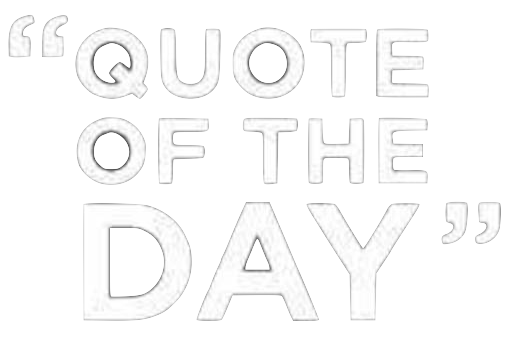
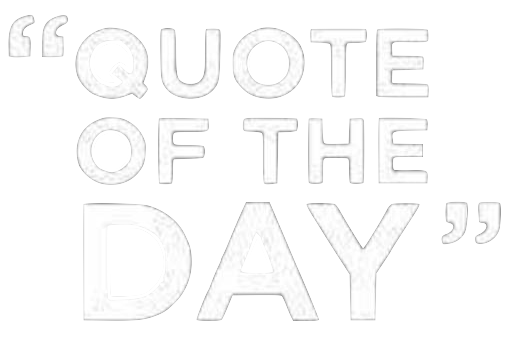
quote and word widget

diff --git a/lib/widgets/todaysWord.dart b/lib/widgets/todaysWord.dart
@@ -4,7 +4,7 @@ import 'package:overlay/overlay.dart';
 
 import '../providers/quotes.dart';
 
-class TodaysQuote extends StatelessWidget {
+class TodaysWord extends StatelessWidget {
   @override
   Widget build(BuildContext context) {
     var theme = Theme.of(context);
@@ -15,10 +15,10 @@ class TodaysQuote extends StatelessWidget {
               context: context,
               // Using overlayWidget
               overlayWidget: Padding(
-                  padding: const EdgeInsets.all(10.0),
+                  padding: const EdgeInsets.all(8.0),
                   child: Card(
                     child: Padding(
-                      padding: EdgeInsets.all(10),
+                      padding: EdgeInsets.all(8),
                       child: Text('"$latestQuote"',
                           style: theme.textTheme.headline6.copyWith(
                               fontSize: 20,
@@ -28,19 +28,16 @@ class TodaysQuote extends StatelessWidget {
                   )));
         },
         child: Container(
-          height: 140,
-          width: 170,
-          child: Card(
-            margin: EdgeInsets.all(10),
-            color: Color.fromRGBO(242, 242, 242, 1),
-            child: Padding(
-              padding: EdgeInsets.all(8),
-              child: Image.asset(
-                'assets/images/quote_day_final.png',
-                fit: BoxFit.fitWidth,
-              ),
-            ),
-          ),
-        ));
+            height: 140,
+            width: 170,
+            child: Card(
+                margin: EdgeInsets.all(10),
+                color: Color.fromRGBO(242, 242, 242, 1),
+                child: Padding(
+                    padding: EdgeInsets.all(8),
+                    child: Image.asset(
+                      'assets/images/word_day_final.png',
+                      fit: BoxFit.fitWidth,
+                    )))));
   }
 }

diff --git a/lib/widgets/daily_quote_word.dart b/lib/widgets/daily_quote_word.dart
@@ -3,20 +3,32 @@ import 'package:provider/provider.dart';
 
 import '../providers/quotes.dart';
 import '../widgets/todaysQuote.dart';
-import '../widgets/quoteWidgetUI.dart';
+import '../widgets/todaysWord.dart';
 
 class DailyQuoteWord extends StatelessWidget {
   @override
   Widget build(BuildContext context) {
-    var theme = Theme.of(context);
-    var mediaQuery = MediaQuery.of(context);
-    var latestQuote = Provider.of<Quotes>(context).latestQuote;
-    return Row(
-      mainAxisAlignment: MainAxisAlignment.center,
-      children: [
-        QuoteWidgetUI(),
+    return Container(
+      margin: EdgeInsets.all(10),
+      decoration: BoxDecoration(
+        border: Border.all(
+          color: Colors.white54,
+          width: 2,
+        ),
+        borderRadius: BorderRadius.circular(10),
+        boxShadow: [
+          BoxShadow(
+            color: Colors.lightGreen[200].withOpacity(0.5),
+            spreadRadius: 3,
+            blurRadius: 3,
+            offset: Offset(0, 3), // changes position of shadow
+          ),
+        ],
+      ),
+      child: Row(mainAxisAlignment: MainAxisAlignment.center, children: [
         TodaysQuote(),
-      ],
+        TodaysWord(),
+      ]),
     );
   }
 }

diff --git a/lib/widgets/dashboardGrid.dart b/lib/widgets/dashboardGrid.dart
@@ -50,6 +50,7 @@ class SelectCard extends StatelessWidget {
     var theme = Theme.of(context);
     return Card(
         color: Color.fromRGBO(242, 242, 242, 1),
+    
         child: Center(
           child: Column(
               crossAxisAlignment: CrossAxisAlignment.center,
